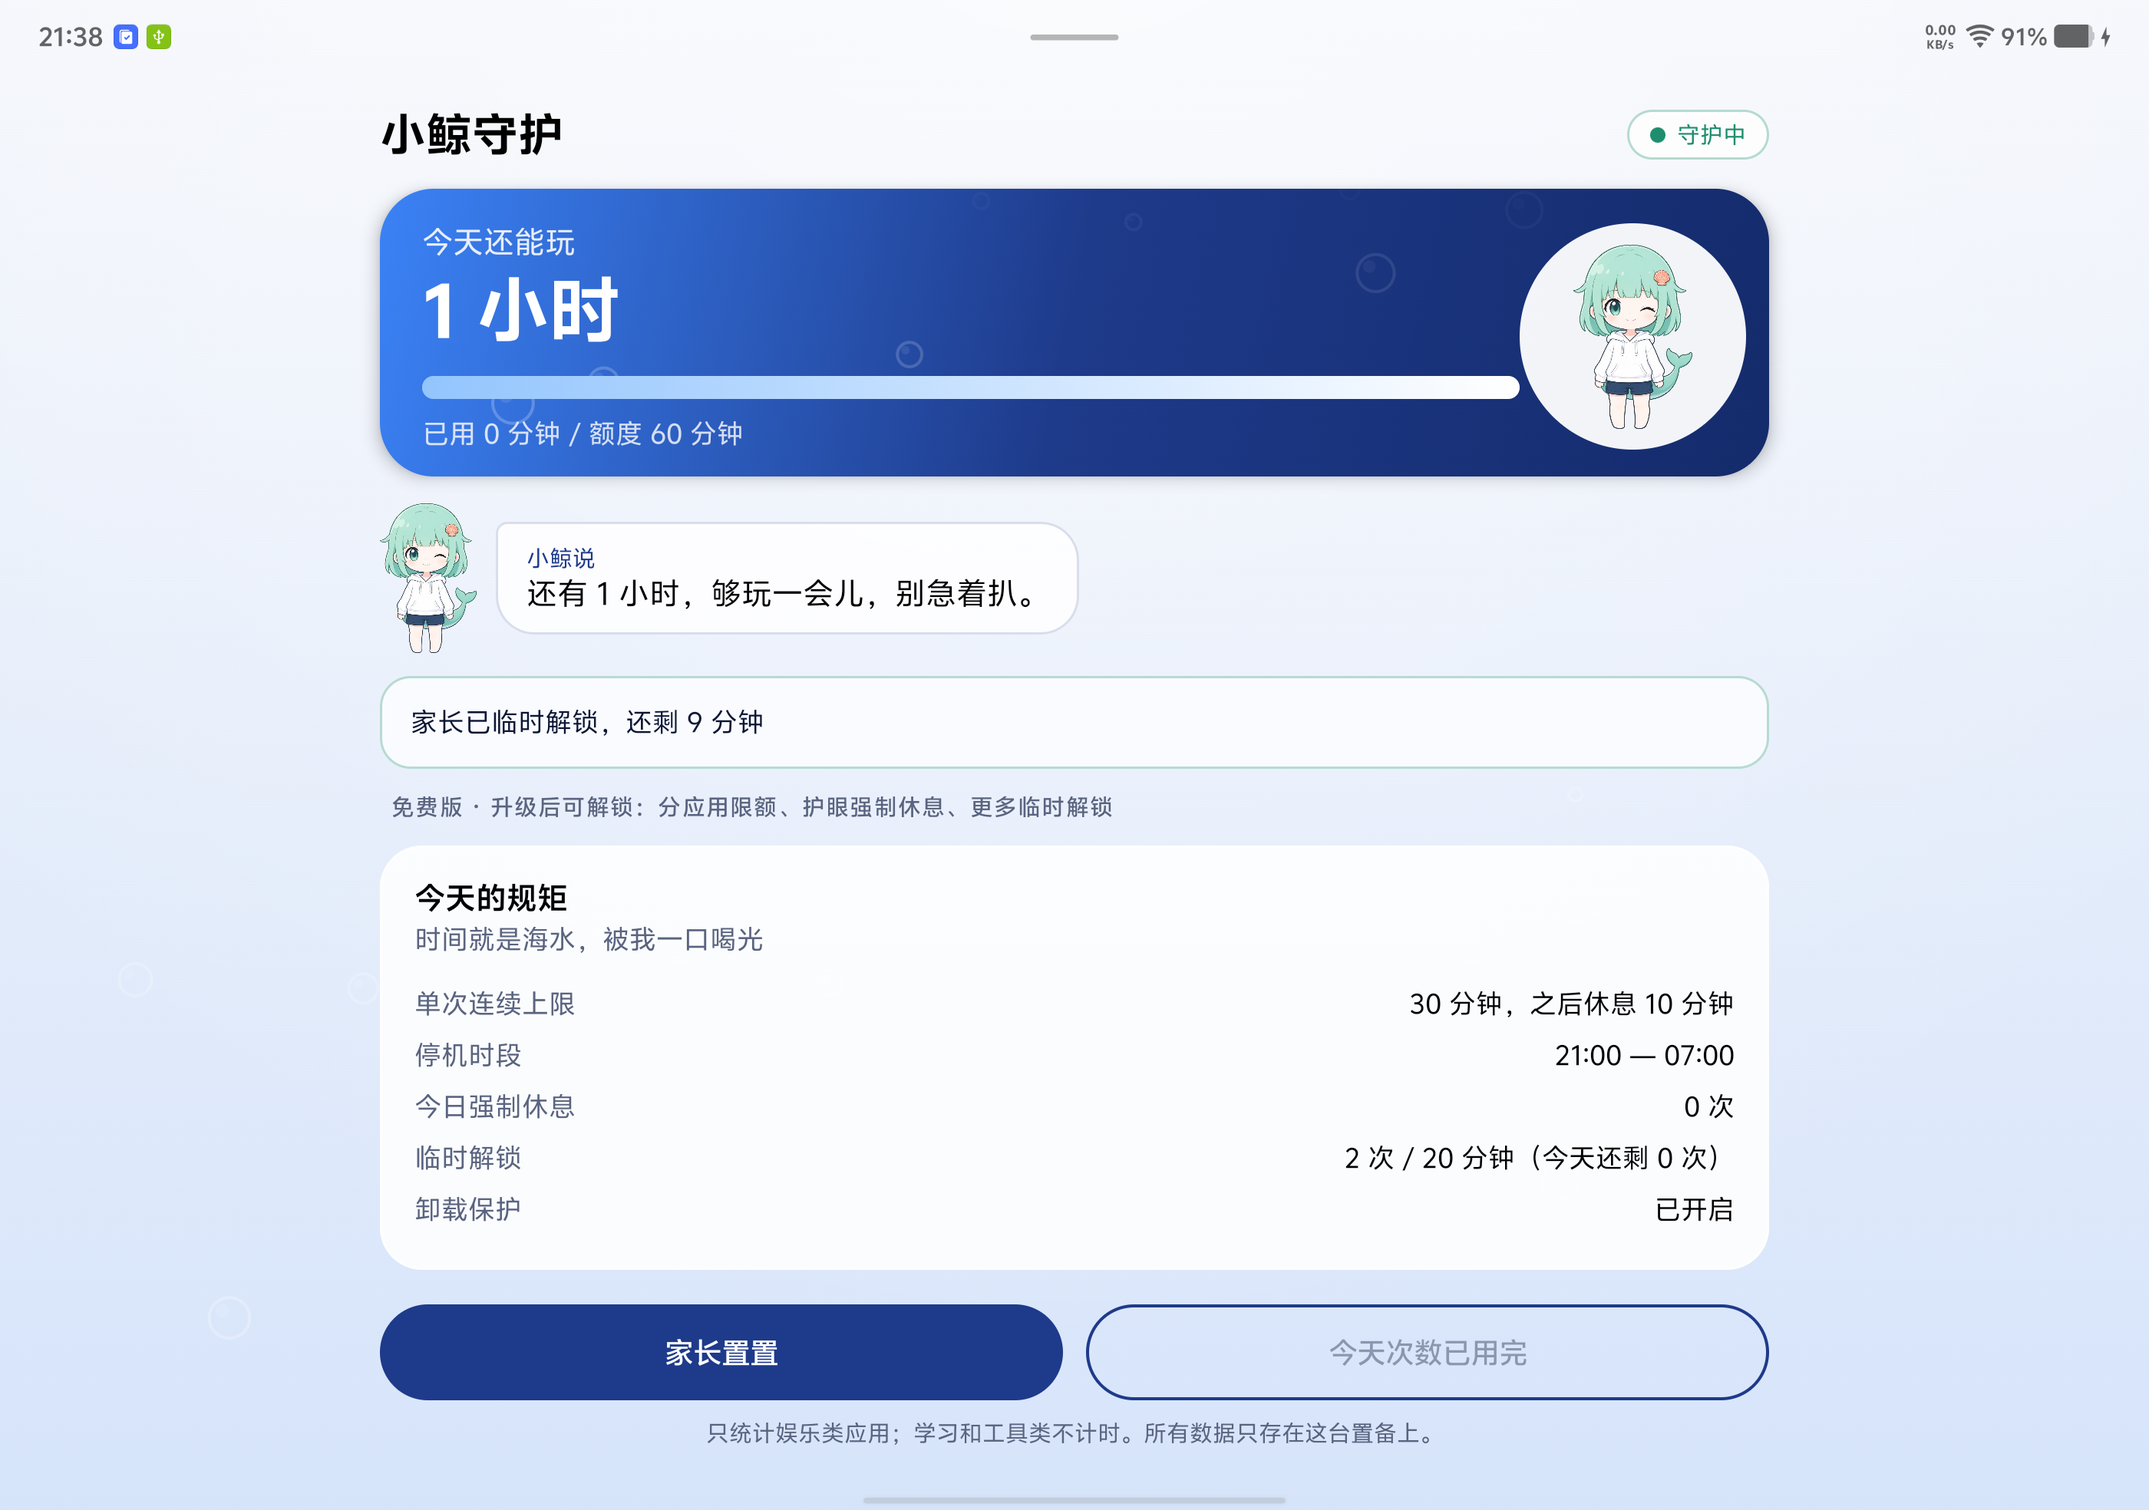
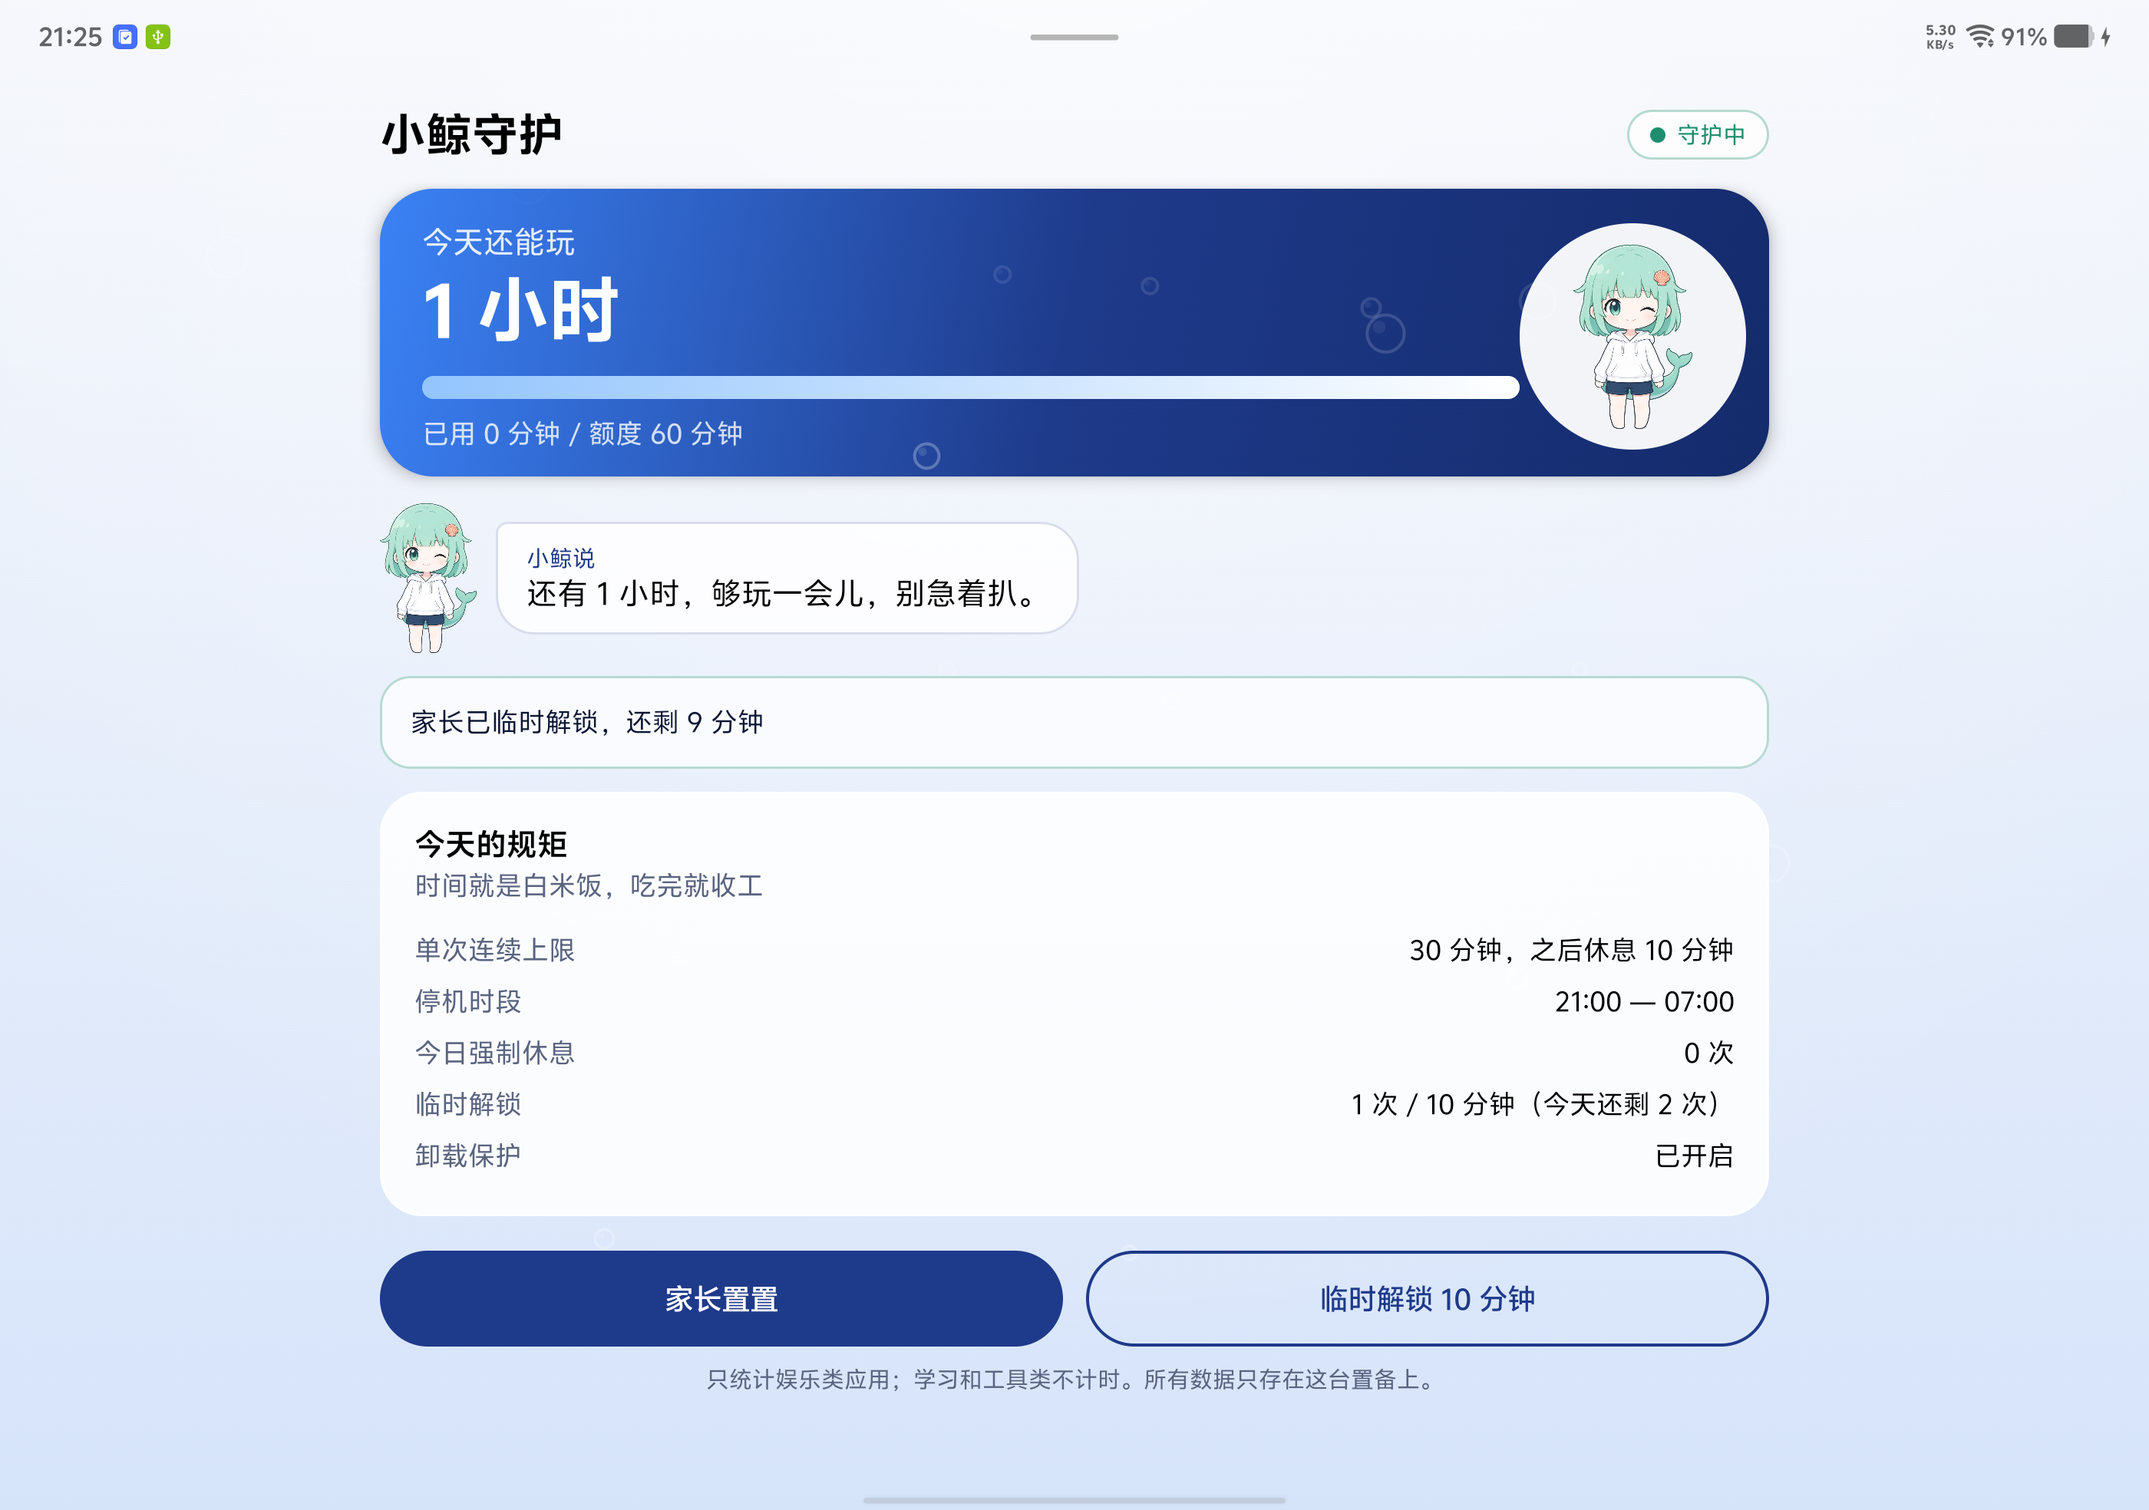
v1.2.0: 应用内购买入口(爱发电) + 发货链路工具

Changed region(s): [[0.1554, 0.5269, 0.8389, 0.9609], [0.8079, 0.8679, 0.8389, 0.8989], [0.0311, 0.0, 0.0621, 0.031]]

diff --git a/app/src/main/java/com/fangchenmi/guard/ui/SettingsScreen.kt b/app/src/main/java/com/fangchenmi/guard/ui/SettingsScreen.kt
@@ -1,5 +1,9 @@
 package com.fangchenmi.guard.ui
 
+import android.content.Context
+import android.content.Intent
+import android.net.Uri
+
 import androidx.compose.foundation.clickable
 import androidx.compose.foundation.layout.Arrangement
 import androidx.compose.foundation.layout.Column
@@ -26,6 +30,7 @@ import androidx.compose.runtime.remember
 import androidx.compose.runtime.setValue
 import androidx.compose.ui.Alignment
 import androidx.compose.ui.Modifier
+import androidx.compose.ui.platform.LocalContext
 import androidx.compose.ui.unit.dp
 import com.fangchenmi.guard.Features
 import com.fangchenmi.guard.core.model.GuardConfig
@@ -52,6 +57,7 @@ fun SettingsScreen(
     onChangePin: () -> Unit,
     usage: com.fangchenmi.guard.core.usage.MeterState,
 ) {
+    val context = LocalContext.current
     var confirmDeactivate by remember { mutableStateOf(false) }
     val unlockedFor = (config.unlockUntilMillis - System.currentTimeMillis()).coerceAtLeast(0)
     val unlocksLeft = com.fangchenmi.guard.core.policy.UnlockPolicy.remainingUnlocks(config, usage, com.fangchenmi.guard.Features.limits)
@@ -212,6 +218,37 @@ fun SettingsScreen(
             }
         }
 
+        if (!Features.isPro) {
+            Spacer(Modifier.height(12.dp))
+            SectionCard(
+                title = "升级到付费版",
+                subtitle = "一次性 19.9 元，以后版本都免费更新。",
+            ) {
+                Text(
+                    "解锁：每个应用单独限额、护眼强制休息、禁止名单不限数量、" +
+                        "每天 3 次临时解锁（时长可调）。",
+                    style = MaterialTheme.typography.bodyMedium,
+                    color = MaterialTheme.colorScheme.onSurfaceVariant,
+                )
+                Spacer(Modifier.height(10.dp))
+                OutlinedButton(onClick = { openPurchasePage(context) }) {
+                    Text("打开购买页")
+                }
+                Spacer(Modifier.height(8.dp))
+                Text(
+                    "付款后回到这里，或在爱发电给作者发私信，说「已付款」，作者会发你一条专属下载链接（7 天有效）。",
+                    style = MaterialTheme.typography.labelMedium,
+                    color = MaterialTheme.colorScheme.onSurfaceVariant,
+                )
+                Spacer(Modifier.height(6.dp))
+                Text(
+                    "装的时候直接装上去覆盖免费版，不要卸载——已经设好的规则和累计时长都会保留。",
+                    style = MaterialTheme.typography.labelMedium,
+                    color = MaterialTheme.colorScheme.onSurfaceVariant,
+                )
+            }
+        }
+
         Spacer(Modifier.height(12.dp))
         ActionCard(
             title = "解除守护",
@@ -223,7 +260,10 @@ fun SettingsScreen(
 
         Spacer(Modifier.height(24.dp))
         Text(
-            text = "小鲸守护 v${com.fangchenmi.guard.BuildConfig.VERSION_NAME}",
+            text = buildString {
+                append("小鲸守护 v${com.fangchenmi.guard.BuildConfig.VERSION_NAME}")
+                if (Features.licensee.isNotEmpty()) append(" · 授权给 ${Features.licensee}")
+            },
             style = MaterialTheme.typography.labelSmall,
             color = MaterialTheme.colorScheme.onSurfaceVariant,
             modifier = Modifier.fillMaxWidth(),
@@ -250,6 +290,16 @@ fun SettingsScreen(
             dismissButton = {
                 TextButton(onClick = { confirmDeactivate = false }) { Text("算了") }
             },
+        )
+    }
+}
+
+/** 打开购买页（免费版专用）。链接改 [Features.PURCHASE_URL] 一处即可。 */
+private fun openPurchasePage(context: Context) {
+    runCatching {
+        context.startActivity(
+            Intent(Intent.ACTION_VIEW, Uri.parse(Features.PURCHASE_URL))
+                .addFlags(Intent.FLAG_ACTIVITY_NEW_TASK),
         )
     }
 }

diff --git a/app/src/main/java/com/fangchenmi/guard/Features.kt b/app/src/main/java/com/fangchenmi/guard/Features.kt
@@ -15,4 +15,16 @@ object Features {
 
     /** 界面上用来标「付费功能」的小标签。 */
     val tierLabel: String = if (isPro) "付费版" else "免费版"
+
+    /**
+     * 付费版的购买页地址。
+     * 上线前把这里换成真实的爱发电 / 小商店链接即可，不用改别的代码。
+     */
+    const val PURCHASE_URL: String = "https://afdian.com/a/ymck1"
+
+    /**
+     * 付费版打包时注入的买家标识（`-Plicensee="张三"`）。
+     * 免费版为空字符串。用它做水印：泄露出去的包会带着买家的名字。
+     */
+    val licensee: String = BuildConfig.LICENSEE
 }

diff --git a/tools/make_plan_image.py b/tools/make_plan_image.py
@@ -1,0 +1,33 @@
+from PIL import Image, ImageDraw, ImageFont
+
+W = H = 1024
+img = Image.new("RGB", (W, H), (10, 30, 60))
+d = ImageDraw.Draw(img)
+top, bottom = (10, 29, 58), (23, 58, 120)
+for y in range(H):
+    t = y / (H - 1)
+    d.line([(0, y), (W, y)], fill=tuple(int(top[i] + (bottom[i] - top[i]) * t) for i in range(3)))
+
+# 气泡只放在上半部的空白处，绝不压字
+for (cx, cy, r, w) in [(120, 170, 44, 2), (905, 120, 26, 2), (80, 420, 20, 2), (960, 470, 34, 2)]:
+    d.ellipse([cx - r, cy - r, cx + r, cy + r], outline=(255, 255, 255), width=w)
+
+mascot = Image.open(r"E:\fangchenmi\app\src\main\res\drawable-nodpi\whale_wave.webp").convert("RGBA")
+scale = 430 / mascot.size[1]
+mascot = mascot.resize((int(mascot.size[0] * scale), 430), Image.LANCZOS)
+img.paste(mascot, ((W - mascot.size[0]) // 2, 120), mascot)
+
+font_big = ImageFont.truetype(r"C:\Windows\Fonts\msyhbd.ttc", 104)
+font_mid = ImageFont.truetype(r"C:\Windows\Fonts\msyh.ttc", 44)
+font_small = ImageFont.truetype(r"C:\Windows\Fonts\msyh.ttc", 36)
+
+def center(text, font, y, fill=(255, 255, 255)):
+    box = d.textbbox((0, 0), text, font=font)
+    d.text(((W - (box[2] - box[0])) / 2 - box[0], y), text, font=font, fill=fill)
+
+center("小鲸守护", font_big, 640)
+center("付费版 · 一次买断 19.9", font_mid, 800, (168, 208, 255))
+center("不联网 · 不上传任何数据", font_small, 880, (138, 172, 216))
+
+img.save(r"E:\fangchenmi\dist\afdian-plan.png", "PNG")
+print("ok")

diff --git a/README.md b/README.md
@@ -6,7 +6,7 @@
 
 ## 下载
 
-最新版：[**下载 免费版 v1.1.0**](https://github.com/ymck-x/xiaojing-guard/releases/download/v1.1.0/xiaojing-guard-1.1.0-free.apk)（6.8 MB，Android 8.0+）
+最新版：[**下载 免费版 v1.2.0**](https://github.com/ymck-x/xiaojing-guard/releases/download/v1.2.0/xiaojing-guard-1.2.0-free.apk)（6.8 MB，Android 8.0+）
 
 安装步骤：
 
@@ -31,13 +31,14 @@
 | 单应用限额（抖音每天 20 分钟） | ❌ | ✅ |
 | 单次连续 + 强制休息（护眼） | ❌ | ✅ |
 | 临时解锁 | 每天 1 次 × 10 分钟 | 每天 3 次，时长可调 |
-| 使用报告 | ❌ | ✅ |
 
 付费版与免费版**同包名、同签名**，直接覆盖安装即可升级，已设好的规则和累计时长全部保留。
 
 ## 定价
 
 一次性买断 **19.9 元**，含全部功能与后续版本更新。不订阅、不内购、不加广告。
+
+购买入口在应用的「家长设置 → 升级到付费版」。付款后私信作者，领取专属下载链接（7 天有效）。
 
 ## 功能
 
@@ -49,7 +50,7 @@
 | 应用分类 | 每个应用可设为「学习（不计时）/ 娱乐（计额度）/ 禁止（打开就弹回）」 |
 | 单应用限额 | 娱乐类应用可再单独设每日限额，比如抖音只给 20 分钟 |
 | 禁止进入设置与管理工具 | 设置、i管家/安全中心、权限管理、应用商店、文件管理、手机互传——这些入口都能关掉守护或装应用，一律要密码 |
-| 失效提醒 | 开机 / 应用更新 / 进程启动时自检：守护开着但无障碍授权被系统清掉了，立刻发通知「小鲸守护已失效」 |
+| 失效提醒 | 开机 / 应用更新 / 进程启动时自检：守护开着但无障碍授权被系统清掉了，立刻发通知「防沉迷已失效」 |
 | 家长密码 | **8 位数字**，PBKDF2 加盐存储，明文不落盘；8 位是一亿种组合，配试错锁定基本不可能被暴力试开 |
 | 临时解锁 | 家长验证密码后解锁一段固定时间（默认 10 分钟），期间**不拦截也不计时**——家长用平板不该烧孩子的额度；**每天有次数上限**（默认 3 次，可调），用完当天不再放行 |
 | 密码试错保护 | 连续输错 5 次起开始锁：30 秒 → 1 分 → 2 分…翻倍，封顶 15 分钟；计数落盘，关掉密码框重开也不会清零 |
@@ -133,7 +134,7 @@
 
 1. **依赖无障碍服务**。孩子如果能在设置里关掉它，防护立即失效。所以「禁止进入设置与管理工具」默认开启。
    注意：**应用被覆盖安装、系统升级后，系统会清空无障碍授权**，守护会静默失效——已用看门狗通知兜底，
-   但换新版后仍要留意那条「小鲸守护已失效」的通知。
+   但换新版后仍要留意那条「防沉迷已失效」的通知。
 2. **安全模式可绕过**。长按电源 → 关机 → 长按「关机」进入安全模式，第三方应用全部停用。要防这个，
    需要设备厂商级的管理员权限（Device Owner），普通侧载应用拿不到。
 3. **恢复出厂设置当然也能解除**。

diff --git a/docs/发货流程.md b/docs/发货流程.md
@@ -1,0 +1,61 @@
+# 发货流程（每单 2 分钟）
+
+服务器：`dl.speakve.com`（182.254.157.23，Ubuntu 22.04，nginx）
+下载目录：`/var/www/xiaojing-dl/<32位token>/xiaojing-guard-pro.apk`
+下载前缀：`https://dl.speakve.com/xj/`
+
+## 收到一笔付款后
+
+```powershell
+# 1. 打一个带买家名字的包（「关于」页会显示「授权给 张三」）
+cd E:\fangchenmi
+.\tools\make-pro-apk.ps1 -Name "张三"
+
+# 2. 传到服务器，拿到专属链接（默认 7 天有效）
+.\tools\publish-apk.ps1 -Apk "dist\pro-张三.apk" -Days 7
+```
+
+第 2 步会打印一条链接，形如：
+
+```
+https://dl.speakve.com/xj/ea7ac2b96ec6468d9cd7bb633df2648e/xiaojing-guard-pro.apk
+```
+
+把这条链接和下面这段发给买家（微信/私信）：
+
+```
+小鲸守护付费版：<链接>（7 天内有效）
+
+装的时候直接装，覆盖免费版即可，不要卸载——规则和累计时长都会保留。
+装不上随时找我。
+```
+
+## 为什么这么设计
+
+| 设计 | 解决什么 |
+|---|---|
+| 每个买家一个 32 位随机 token 目录 | 链接无法被猜，也不可枚举（`/xj/` 目录列表已禁止） |
+| 每人一个包，包内写「授权给 xxx」 | 转发时带着自己名字，心理成本高；泄露可追溯 |
+| `.expires` + 每天 04:00 自动清理 | 链接 7 天后失效，泄露的旧链接自然死亡 |
+| 同包名同签名 | 覆盖安装免费版，数据不丢，不用重设 |
+
+## 紧急下架某条链接
+
+```powershell
+ssh -i C:\Users\Administrator\.ssh\speakveZG.pem ubuntu@182.254.157.23 "sudo rm -rf /var/www/xiaojing-dl/<token>"
+```
+
+## 服务器上的东西
+
+| 路径 | 作用 |
+|---|---|
+| `/var/www/xiaojing-dl/` | 下载根目录（www-data 可读） |
+| `/usr/local/bin/xj-cleanup.sh` | 按 `.expires` 清理过期目录 |
+| `crontab`：`0 4 * * *` | 每天凌晨跑一次清理 |
+| `/etc/nginx/sites-available/dl-speakve` | 新增了 `location ^~ /xj/`；改动前已备份为 `.bak-20261031-221418` |
+
+## 注意
+
+- 这个 nginx 配置同时服务你原有的 `speakve-download` 站点，**只新增了 `/xj/` 一个 location**，其他路径未动。
+- 免费版仍然只走 GitHub Releases，服务器只放付费版。
+- 服务器上没有做访问统计。想知道有多少人下载，后续可以加 nginx access_log 过滤 `/xj/`。

diff --git a/docs/release-notes-v1.2.0.md b/docs/release-notes-v1.2.0.md
@@ -1,0 +1,44 @@
+# 小鲸守护 v1.2.0
+
+给孩子的平板按家长定的规矩限时。**不联网、不上传任何数据。**
+
+## 这一版加了购买入口
+
+免费版家长设置里新增「升级到付费版」，点「打开购买页」直接跳到购买页；付款后私信作者领取专属下载链接。
+
+其余同 v1.1.0：免费版管总时长、停机时段、整屏锁；付费版多出分应用限额、护眼强制休息、更多临时解锁次数。
+
+## 免费版与付费版
+
+| 功能 | 免费版 | 付费版（19.9 元） |
+| --- | --- | --- |
+| 每日总时长 + 到点整屏锁 | ✅ | ✅ |
+| 停机时段（睡觉时间） | ✅ | ✅ |
+| 家长密码 / 防卸载 / 失效提醒 | ✅ | ✅ |
+| 学习类不计时 | ✅ | ✅ |
+| 禁止名单 | 最多 3 个应用 | 不限 |
+| 单应用限额（抖音每天 20 分钟） | ❌ | ✅ |
+| 单次连续 + 强制休息（护眼） | ❌ | ✅ |
+| 临时解锁 | 每天 1 次 × 10 分钟 | 每天 3 次，时长可调 |
+
+付费版与免费版**同包名、同签名**，直接覆盖安装即可升级，已设好的规则和累计时长全部保留。
+
+## 下载
+
+`xiaojing-guard-1.2.0-free.apk`（6.8 MB，Android 8.0+）
+
+安装步骤：
+
+1. 点开 APK，允许「安装未知来源应用」。
+2. 部分机型（ColorOS / OriginOS）会提示「受限制的设置」，需要去应用信息页解除，否则无障碍开不起来。
+3. 首次启动会请求「读取已安装应用列表」，用于让家长逐个分类应用，点允许即可。
+4. 按引导三步完成：设密码 → 开无障碍 → 开守护。
+
+## 已知限制
+
+- 依赖无障碍权限。系统安全模式可绕过（需要厂商级权限才能防），恢复出厂同样会清除。
+- 覆盖安装或系统升级后，系统会清空无障碍授权，应用会推送「小鲸守护已失效」提醒，点一下重新开启即可。
+
+## 隐私
+
+见 [PRIVACY.md](../blob/main/PRIVACY.md)。**不收集任何数据，没有网络权限。**
